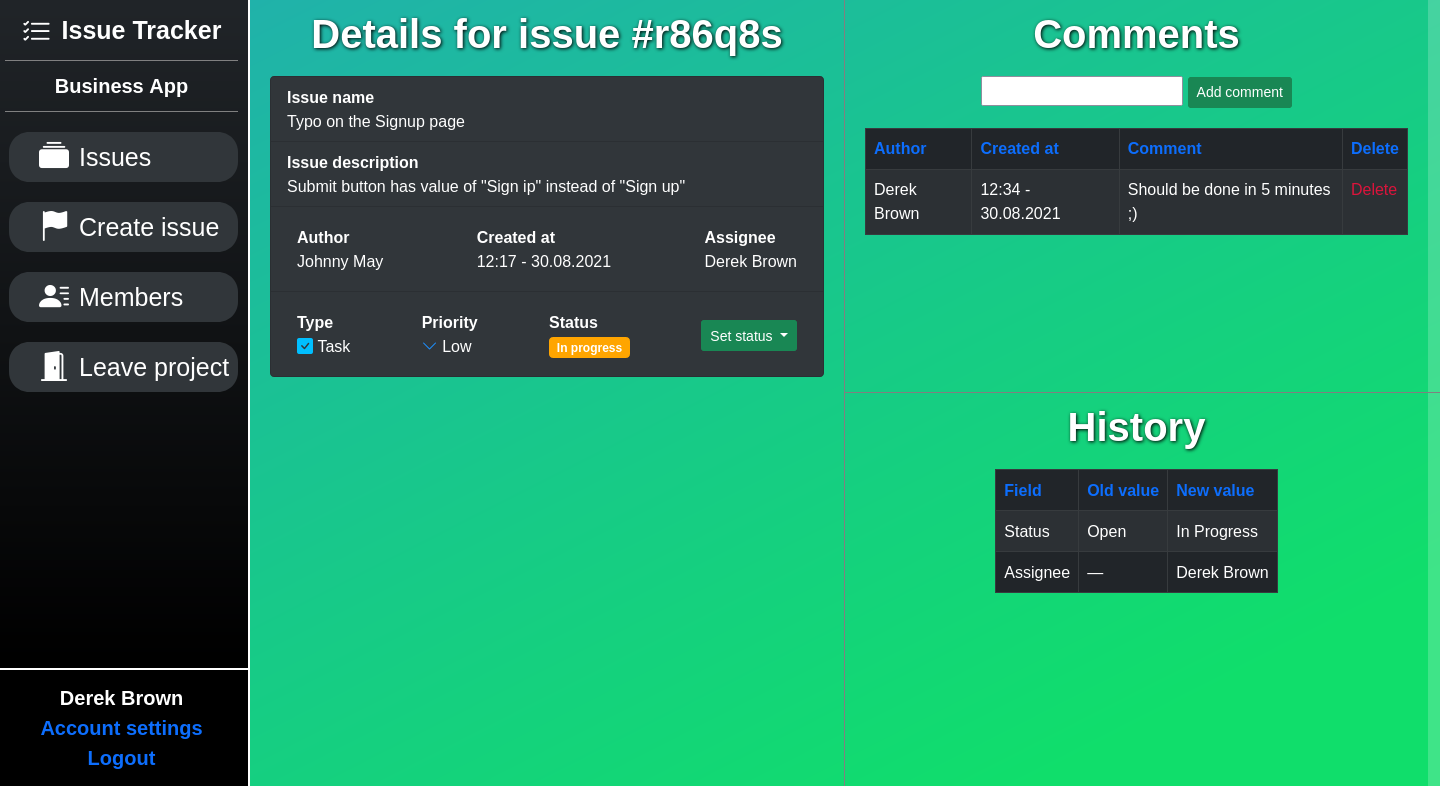
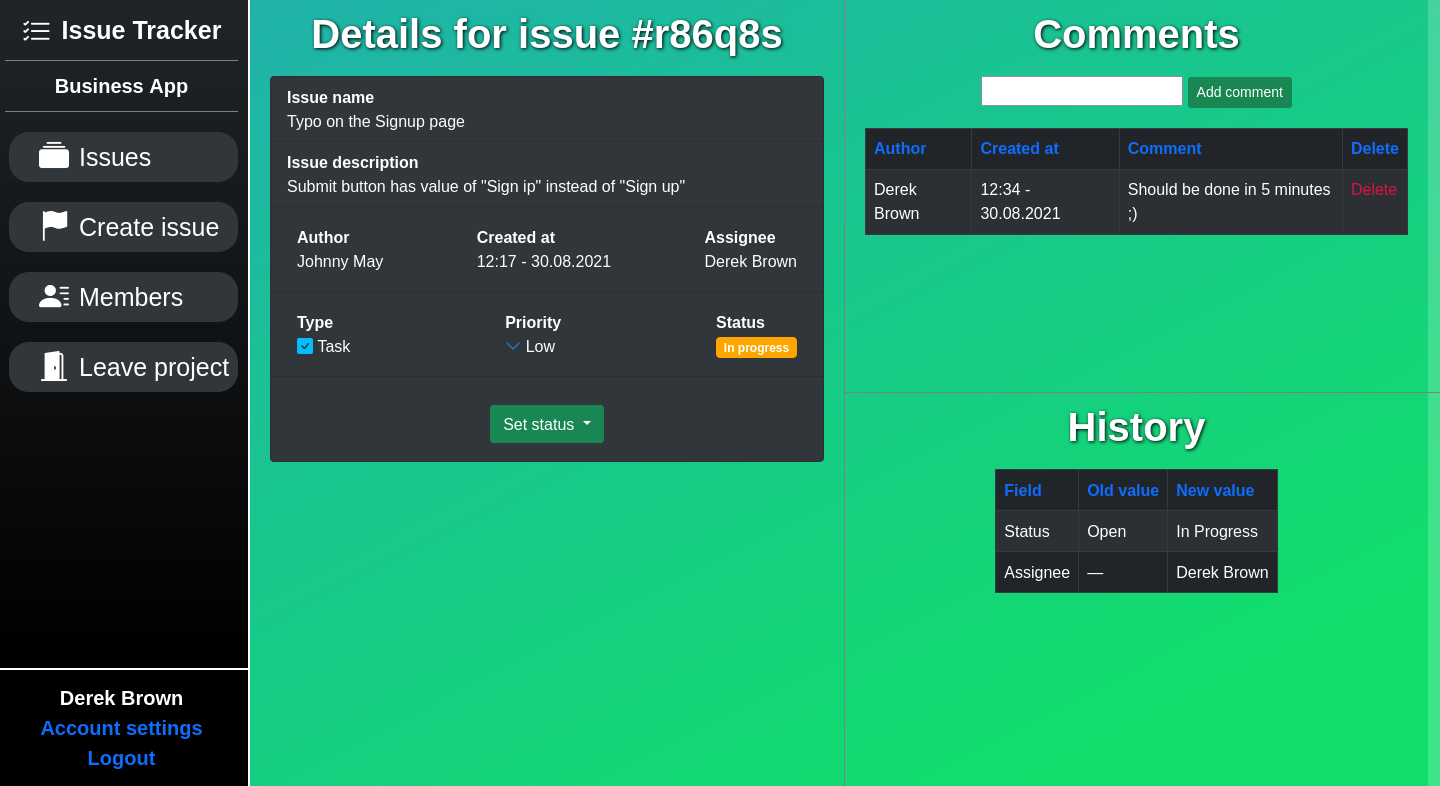
Added issue user assign feature, added screenshots to Readme, renamed one of the custom mixins

Changed region(s): [[0.1875, 0.3969, 0.5938, 0.6107]]

diff --git a/templates/components/issue_details/content.html b/templates/components/issue_details/content.html
@@ -23,7 +23,7 @@
             <span>{{ issue.assignee }}</span>
         </div>
     </li>
-    <li class="list-group-item flex-space-items-between" style="overflow: visible">
+    <li class="list-group-item flex-space-items-between">
         <div>
             <b>Type</b><br>
             <span>{{ issue.type|get_issue_type }}</span>
@@ -36,6 +36,8 @@
             <b>Status</b><br>
             <span>{{ issue.status|get_issue_status }}</span>
         </div>
+    </li>
+    <li class="list-group-item flex-space-items-around" style="overflow: visible; align-items: end">
         {% if issue.status == 'in_progress' %}
             {% if user_member.is_owner or user_member.role == 3 or issue.assignee == user %}
                 {% include 'components/issue_details/status_setter.html' %}
@@ -48,6 +50,9 @@
             {% if user_member.is_owner or user_member.role == 3 or issue.author == user %}
                 {% include 'components/issue_details/status_setter.html' %}
             {% endif %}
+        {% endif %}
+        {% if user_member.role == 3 or user_member.is_owner %}
+            {% include 'components/issue_details/user_assigner.html' %}
         {% endif %}
     </li>
     {% if user == issue.author or user_member.role == 3 or user == issue.project.owner %}

diff --git a/templates/components/issue_details/user_assigner.html b/templates/components/issue_details/user_assigner.html
@@ -1,0 +1,15 @@
+<div class="dropdown">
+    <button class="btn btn-warning dropdown-toggle" type="button" id="dropdownMenuButton1" data-bs-toggle="dropdown" aria-expanded="false">
+      Assign user
+    </button>
+    <ul class="dropdown-menu dropdown-menu-dark">
+        <form method="post" action="{% url 'issue_assign_user' issue.project.slug issue.slug %}">
+            {% csrf_token %}
+                {% for assignable_user in assignable_users %}
+                <li><a class="dropdown-item user-assigner" data-new-assignee="{{ assignable_user.user.id }}">
+                    {{ assignable_user.user }}
+                </a></li>
+            {% endfor %}
+        </form>
+    </ul>
+</div>

diff --git a/templates/components/issue_details/status_setter.html b/templates/components/issue_details/status_setter.html
@@ -1,5 +1,5 @@
-<div>
-    <button class="btn btn-sm btn-success dropdown-toggle" type="button" id="dropdownMenuButton1" data-bs-toggle="dropdown" aria-expanded="false" style="margin-top: 10px">
+<div class="dropdown">
+    <button class="btn btn-success dropdown-toggle" type="button" id="dropdownMenuButton1" data-bs-toggle="dropdown" aria-expanded="false" style="margin-top: 10px">
       Set status
     </button>
     <ul class="dropdown-menu dropdown-menu-dark">

diff --git a/static/js/user_assigner.js b/static/js/user_assigner.js
@@ -1,0 +1,13 @@
+$(document).ready(function() {
+    $('.user-assigner').click(function() {
+        const form = $(this.parentNode.parentNode)
+        const new_assignee = $(this).data('new-assignee')
+
+        $('<input>', {
+            type: 'hidden',
+            name: 'new_assignee',
+            value: new_assignee
+        }).appendTo(form)
+        $(form).submit()
+    })
+})

diff --git a/staticfiles/js/user_assigner.528ae6a32921.js b/staticfiles/js/user_assigner.528ae6a32921.js
@@ -1,0 +1,13 @@
+$(document).ready(function() {
+    $('.user-assigner').click(function() {
+        const form = $(this.parentNode.parentNode)
+        const new_assignee = $(this).data('new-assignee')
+
+        $('<input>', {
+            type: 'hidden',
+            name: 'new_assignee',
+            value: new_assignee
+        }).appendTo(form)
+        $(form).submit()
+    })
+})

diff --git a/staticfiles/js/user_assigner.js b/staticfiles/js/user_assigner.js
@@ -1,0 +1,13 @@
+$(document).ready(function() {
+    $('.user-assigner').click(function() {
+        const form = $(this.parentNode.parentNode)
+        const new_assignee = $(this).data('new-assignee')
+
+        $('<input>', {
+            type: 'hidden',
+            name: 'new_assignee',
+            value: new_assignee
+        }).appendTo(form)
+        $(form).submit()
+    })
+})

diff --git a/templates/issues/issue_details.html b/templates/issues/issue_details.html
@@ -35,5 +35,6 @@
 {% endblock content %}
 {% block scripts %}
     <script src="{% static 'js/status_setter.js' %}"></script>
+    <script src="{% static 'js/user_assigner.js' %}"></script>
     <script src="{% static 'js/a_tag_form_submit.js' %}"></script>
 {% endblock scripts %}

diff --git a/staticfiles/css/style.css b/staticfiles/css/style.css
@@ -356,6 +356,10 @@ a {
     cursor: pointer;
 }
 
+.user-assigner {
+    cursor: pointer;
+}
+
 .project-heading {
     display: flex;
     justify-content: center;

diff --git a/issues/tests/tests_issues.py b/issues/tests/tests_issues.py
@@ -221,6 +221,7 @@ class IssueSetStatusViewTest(IssuesTestBase):
         self.assertEqual(resp.status_code, 302)
         self.assertRedirects(resp, self.start_url)
         self.assertEqual(Issue.objects.get(id=self.issue1.id).assignee, self.user1)
+        self.assertEqual(Issue.objects.get(id=self.issue1.id).status, 'in_progress')
 
         self.client.force_login(self.user4)
         resp = self.client.post(self.desired_reverse_url, {'new_status': 'closed'}, HTTP_REFERER=self.start_url)
@@ -228,5 +229,76 @@ class IssueSetStatusViewTest(IssuesTestBase):
 
         self.client.force_login(self.user3)
         resp = self.client.post(self.desired_reverse_url, {'new_status': 'closed'}, HTTP_REFERER=self.start_url)
+        self.assertEqual(resp.status_code, 302)
+        self.assertRedirects(resp, self.start_url)
+
+
+class IssueAssignUserViewTest(IssuesTestBase):
+    def setUp(self):
+        super().setUp()
+        self.desired_manual_url = f'/project/{self.project.slug}/i/{self.issue1.slug}/assign-user'
+        self.desired_reverse_url = reverse('issue_assign_user', args=[self.project.slug, self.issue1.slug])
+        self.expected_redirect_url = '/login/?next=' + self.desired_manual_url
+        self.start_url = self.project.get_absolute_url()
+        self.new_assignee = {
+            'new_assignee': self.user4.id
+        }
+        self.client.force_login(self.user3)
+
+    def test_accessible_by_url(self):
+        resp = self.client.post(self.desired_manual_url, self.new_assignee, HTTP_REFERER=self.start_url)
+        self.assertEqual(resp.status_code, 302)
+        self.assertRedirects(resp, self.start_url)
+
+    def test_accessible_by_reverse_name(self):
+        resp = self.client.post(self.desired_reverse_url, self.new_assignee, HTTP_REFERER=self.start_url)
+        self.assertEqual(resp.status_code, 302)
+        self.assertRedirects(resp, self.start_url)
+
+    def test_manual_and_reverse_name_url_are_same(self):
+        self.assertEqual(self.desired_manual_url, self.desired_reverse_url)
+
+    def test_POST_issue_assign_user(self):
+        resp = self.client.post(self.desired_reverse_url, self.new_assignee, HTTP_REFERER=self.start_url)
+        self.assertEqual(resp.status_code, 302)
+        self.assertRedirects(resp, self.start_url)
+        self.assertEqual(Issue.objects.get(id=self.issue1.id).assignee, self.user4)
+
+    def test_POST_bad_request(self):
+        resp = self.client.post(self.desired_reverse_url, {'new_assignee': self.user6.id}, HTTP_REFERER=self.start_url)
+        self.assertEqual(resp.status_code, 400)
+
+        resp = self.client.post(self.desired_reverse_url, {'new_assignee': self.user5.id}, HTTP_REFERER=self.start_url)
+        self.assertEqual(resp.status_code, 400)
+
+    def test_POST_non_member(self):
+        self.client.force_login(self.user6)
+        resp = self.client.post(self.desired_reverse_url, self.new_assignee, HTTP_REFERER=self.start_url)
+        self.assertEqual(resp.status_code, 404)
+
+    def test_POST_unauthorized_member(self):
+        self.client.force_login(self.user4)
+        resp = self.client.post(self.desired_reverse_url, self.new_assignee, HTTP_REFERER=self.start_url)
+        self.assertEqual(resp.status_code, 403)
+
+        self.client.force_login(self.user5)
+        resp = self.client.post(self.desired_reverse_url, self.new_assignee, HTTP_REFERER=self.start_url)
+        self.assertEqual(resp.status_code, 403)
+
+    def test_POST_assigned_issue(self):
+        self.assertIsNone(Issue.objects.get(id=self.issue1.id).assignee)
+
+        resp = self.client.post(self.desired_reverse_url, self.new_assignee, HTTP_REFERER=self.start_url)
+        self.assertEqual(resp.status_code, 302)
+        self.assertRedirects(resp, self.start_url)
+        self.assertEqual(Issue.objects.get(id=self.issue1.id).assignee, self.user4)
+        self.assertEqual(Issue.objects.get(id=self.issue1.id).status, 'in_progress')
+
+        self.client.force_login(self.user4)
+        resp = self.client.post(self.desired_reverse_url, self.new_assignee, HTTP_REFERER=self.start_url)
+        self.assertEqual(resp.status_code, 403)
+
+        self.client.force_login(self.user3)
+        resp = self.client.post(self.desired_reverse_url, self.new_assignee, HTTP_REFERER=self.start_url)
         self.assertEqual(resp.status_code, 302)
         self.assertRedirects(resp, self.start_url)

diff --git a/issues/views/views_issues.py b/issues/views/views_issues.py
@@ -1,10 +1,11 @@
 from django.views.generic import DetailView, CreateView, UpdateView, DeleteView, View
-from django.urls import reverse_lazy
 from django.shortcuts import HttpResponse, HttpResponseRedirect, get_object_or_404, redirect
 from django_tables2 import MultiTableMixin
+from django.apps import apps
+from django.db.models import Q
 
 from custom.mixins import HierarchicalSlugMixin, UserInProjectMixin, ProjectSidebarLinks, \
-    MemberIsDeveloperOrOwnerMixin, MemberCanControlIssue
+    MemberIsDeveloperOrOwnerMixin, MemberCanControlIssueMixin
 from issues.models import Issue
 from issues.forms import IssueCreateEditForm, CommentCreateForm
 from projects.models import Project, Member
@@ -37,6 +38,12 @@ class IssueDetailsView(ProjectSidebarLinks, MultiTableMixin, HierarchicalSlugMix
     def get_context_data(self, **kwargs):
         context = super().get_context_data(**kwargs)
         context['comment_form'] = CommentCreateForm()
+
+        project = get_object_or_404(Project, slug=self.kwargs.get('project_slug'))
+        context['assignable_users'] = Member.objects.filter(~Q(role=1), project=project)
+        if project.owner not in context['assignable_users']:
+            context['assignable_users'] |= Member.objects.filter(project=project, user=project.owner)
+
         return context
 
     def dispatch(self, request, *args, **kwargs):
@@ -75,7 +82,7 @@ class IssueCreateView(ProjectSidebarLinks, HierarchicalSlugMixin, MemberIsDevelo
         return redirect('project_details', project_slug)
 
 
-class IssueEditView(ProjectSidebarLinks, HierarchicalSlugMixin, MemberCanControlIssue, UpdateView):
+class IssueEditView(ProjectSidebarLinks, HierarchicalSlugMixin, MemberCanControlIssueMixin, UpdateView):
     model = Issue
     form_class = IssueCreateEditForm
     template_name = 'issues/issue_edit.html'
@@ -84,7 +91,7 @@ class IssueEditView(ProjectSidebarLinks, HierarchicalSlugMixin, MemberCanControl
         return self.object.get_absolute_url()
 
 
-class IssueDeleteView(ProjectSidebarLinks, HierarchicalSlugMixin, MemberCanControlIssue, DeleteView):
+class IssueDeleteView(ProjectSidebarLinks, HierarchicalSlugMixin, MemberCanControlIssueMixin, DeleteView):
     model = Issue
     template_name = 'issues/issue_delete.html'
 
@@ -122,6 +129,34 @@ class IssueSetStatusView(MemberIsDeveloperOrOwnerMixin, View):
             issue.assignee = request.user
         elif new_status in ('open', 'reopened'):
             issue.assignee = None
+        issue.save()
+
+        return HttpResponseRedirect(request.META.get('HTTP_REFERER'))
+
+
+class IssueAssignUserView(View):
+    def post(self, request, *args, **kwargs):
+        project = get_object_or_404(Project, slug=kwargs.get('project_slug'))
+        member = get_object_or_404(Member, project=project, user=request.user)
+        issue = get_object_or_404(
+            Issue,
+            project=project,
+            slug=kwargs.get('issue_slug')
+        )
+        new_assignee_id = request.POST['new_assignee']
+
+        if not member.is_owner and member.role != 3:
+            return HttpResponse(status=403)
+        assignee = apps.get_model('users.CustomUser').objects.filter(id=new_assignee_id).first()
+        if assignee not in project.users:
+            return HttpResponse(status=400)
+        new_assignee_member = Member.objects.filter(project=project, user=assignee).first()
+        if not new_assignee_member.is_owner and new_assignee_member.role == 1:
+            return HttpResponse(status=400)
+
+        issue.assignee = assignee
+        if issue.status in ('open', 'reopened'):
+            issue.status = 'in_progress'
         issue.save()
 
         return HttpResponseRedirect(request.META.get('HTTP_REFERER'))

diff --git a/issues/urls.py b/issues/urls.py
@@ -1,7 +1,7 @@
 from django.urls import path, include
 
 from .views import IssueDetailsView, IssueEditView, IssueDeleteView, IssueSetStatusView, IssueCreateView,\
-    CommentCreateView, CommentDeleteView
+    CommentCreateView, CommentDeleteView, IssueAssignUserView
 
 urlpatterns = [
     path('issue-create', IssueCreateView.as_view(), name='issue_create'),
@@ -11,6 +11,7 @@ urlpatterns = [
         path('edit', IssueEditView.as_view(), name='issue_edit'),
         path('delete', IssueDeleteView.as_view(), name='issue_delete'),
         path('set-status', IssueSetStatusView.as_view(), name='issue_set_status'),
+        path('assign-user', IssueAssignUserView.as_view(), name='issue_assign_user'),
 
         path('comments/', include([
             path('', CommentCreateView.as_view(), name='comment_create'),
